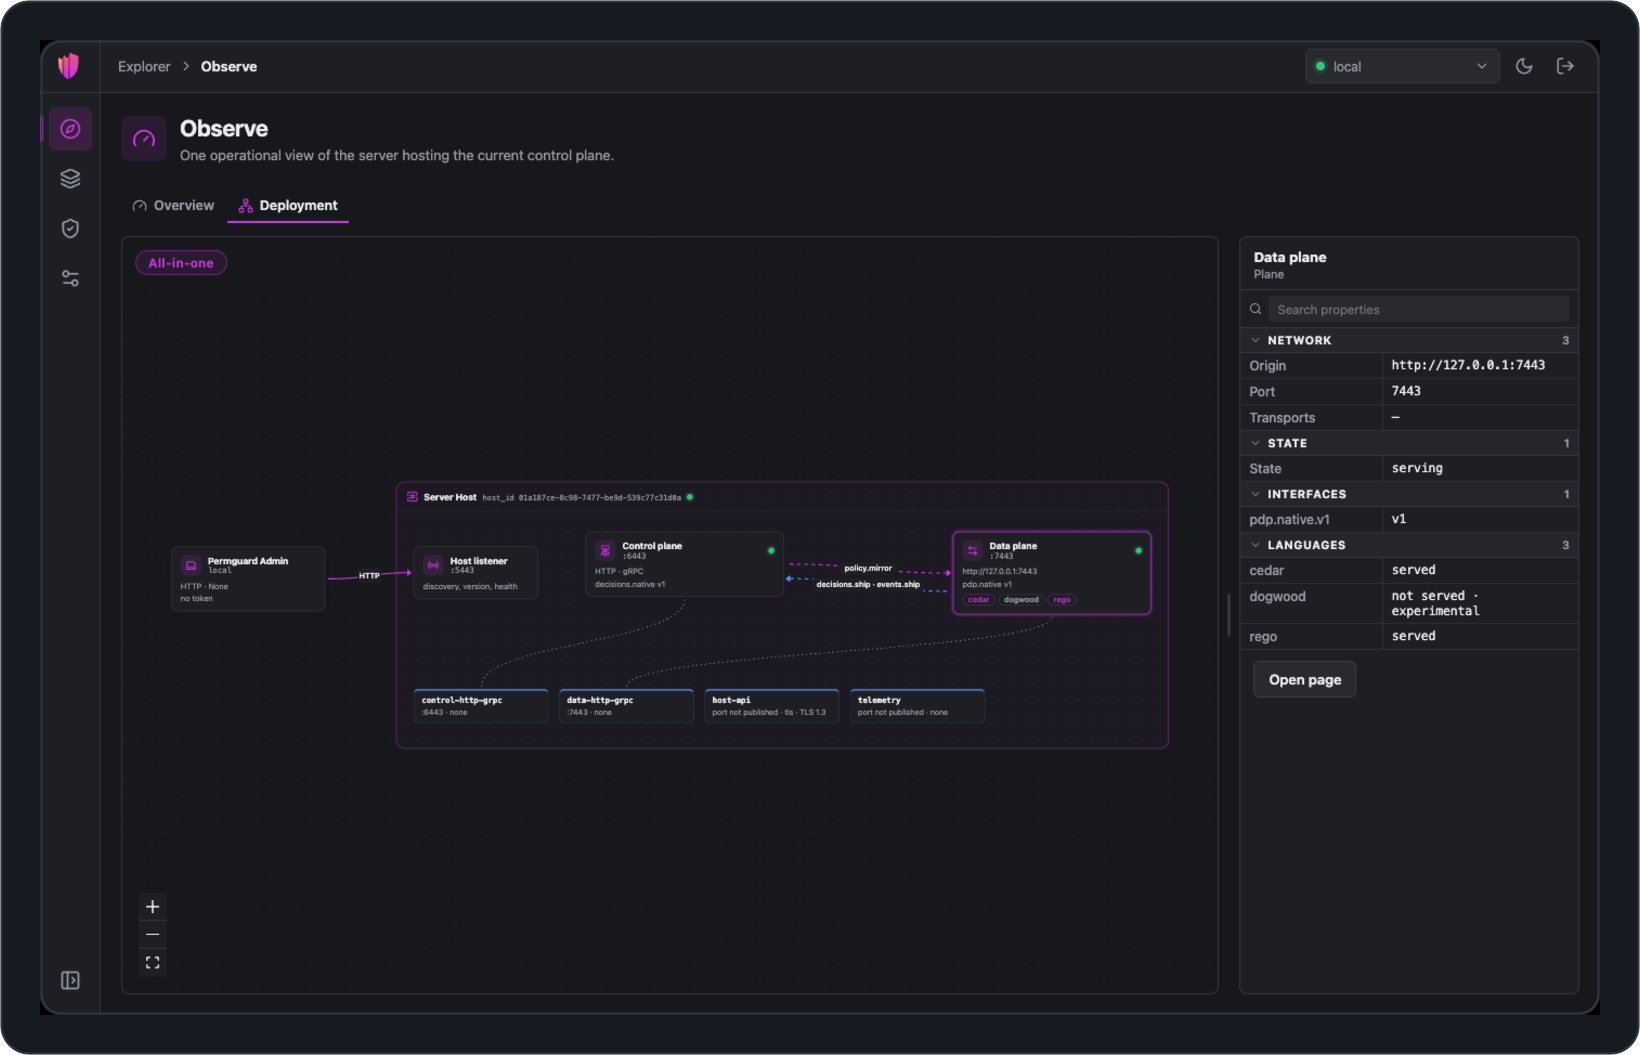
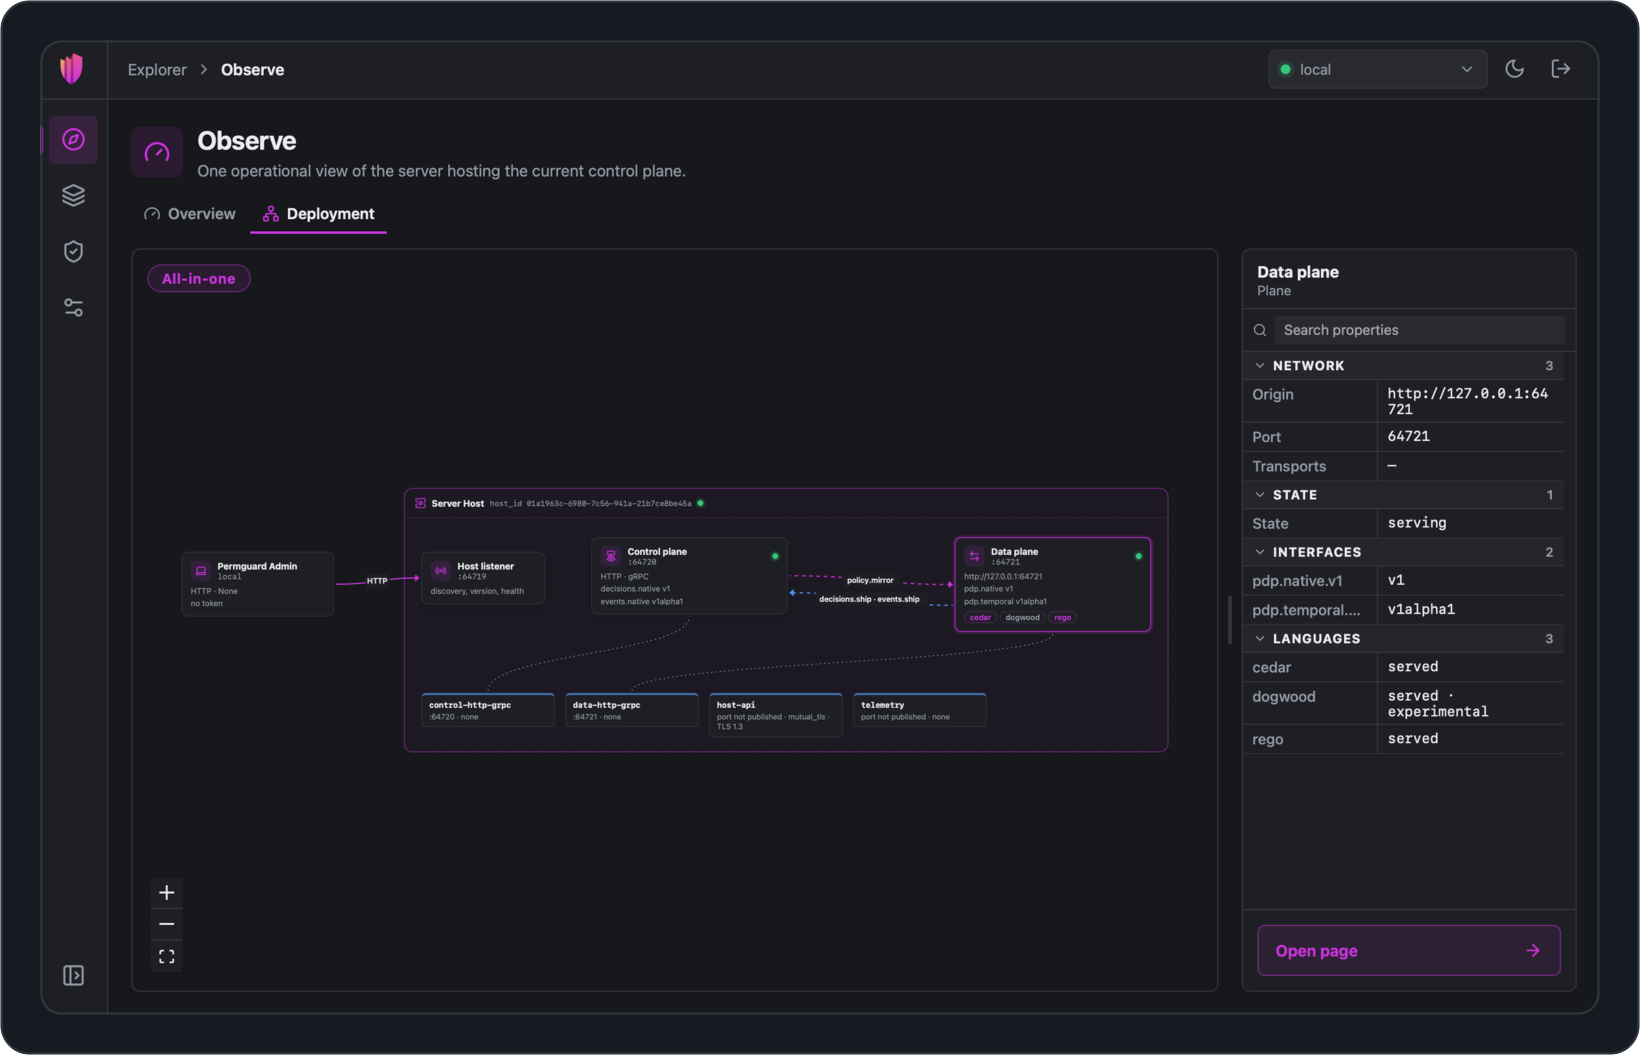
docs(readme): screenshots of 0.1.4 from the lab's sample data
Every screen and diagram retaken on the local all-in-one with its sample data, each alt text saying what it now shows; the playground's benchmarks/README.md removed, the suites staying in their folders.

diff --git a/README.md b/README.md
@@ -17,13 +17,13 @@ SPDX-License-Identifier: LicenseRef-Permguard-Admin-Binary
 </p>
 
 <p align="center">
-  <img src="assets/diagrams/deployment.png" alt="The deployment of a Permguard server, drawn by Permguard Admin from what the server publishes: Permguard Admin reaches the Host listener on 5443 over HTTP; inside the Server Host, the Control Plane on 6443 mirrors policies to the Data Plane on 7443, which ships decisions and events back; the Data Plane serves Cedar, Dogwood and Rego; below, the listeners control-http-grpc, data-http-grpc, host-api and telemetry." width="820">
+  <img src="assets/diagrams/deployment.png" alt="The deployment of a Permguard server, drawn by Permguard Admin from what the server publishes: Permguard Admin reaches the Host listener on 64719 over HTTP; inside the Server Host, the Control Plane on 64720 mirrors policies to the Data Plane on 64721, which ships decisions and events back; the Data Plane serves Cedar, Dogwood and Rego; below, the listeners control-http-grpc, data-http-grpc, host-api and telemetry." width="820">
 </p>
 
 <p align="center"><sub>Your server, drawn live: every plane, port, listener and flow, and how policies, decisions and events move between them.</sub></p>
 
 <p align="center">
-  <img src="assets/diagrams/ledger-diagrams.png" alt="Two ledger files as diagrams. Left, the manifest of mission-control: the profiles api, app and temporal point to the partitions api-gateway, mission-app and launch-window, which run on Rego, Cedar and Dogwood. Right, a Cedar schema: the actions BadgeIn, BadgeOut and Launch link their principal Nebula::Operator and their resource Nebula::Console, beside the input, output and context types." width="820">
+  <img src="assets/diagrams/ledger-diagrams.png" alt="Two ledger files as diagrams. Left, the manifest of order-platform: the profiles gateway, operations and refund point to the partitions order-operations, payment-api and refund-workflow, which run on Cedar, Rego and Dogwood. Right, a Cedar schema: the actions refund and view link their principal Operator and their resource Order, beside the entities Merchant and Role." width="820">
 </p>
 
 <p align="center"><sub>Your policies, drawn: which profile asks which partition and runtime, and what each action is allowed to touch.</sub></p>
@@ -40,7 +40,7 @@ Connect it to your Control Planes and manage them from one window: the server th
 No terminal, no curl, no guessing.
 
 <p align="center">
-  <img src="assets/screens/observe.png" alt="The Observe page: the server of the current control plane, active, with its transport, TLS, version and round trip, and a map of the Host, the Control Plane and the Data Plane." width="820">
+  <img src="assets/screens/observe.png" alt="The Observe page: the server of the current control plane at 127.0.0.1:64719, active, over HTTP with mutual TLS, with its version, its round trip, a small topology of the Host, the Control Plane and the Data Plane, and a map of the surfaces to open." width="820">
 </p>
 
 ## What you can do
@@ -55,7 +55,7 @@ Permguard Admin draws your server as it really is: the Host, the Control Plane a
 Click anything to read its details, double-click a plane to open it.
 
 <p align="center">
-  <img src="assets/screens/deployment.png" alt="The Deployment view: an all-in-one server with its Host listener, Control Plane, Data Plane and listeners, the flows between them, and the details of the selected Data Plane." width="820">
+  <img src="assets/screens/deployment.png" alt="The Deployment tab of Observe: an all-in-one server, with Permguard Admin reaching the Host listener, the Control Plane and the Data Plane exchanging policy.mirror and decisions.ship · events.ship, the four listeners below, and the facts of the selected Data Plane: its origin, state, interfaces and the languages it serves." width="820">
 </p>
 
 ### Follow every event, live
@@ -66,14 +66,14 @@ Spot a spike, drag across it to zoom in, and the list below shows just those eve
 Open any event to see when it happened, under which policies and commit, and its full payload.
 
 <p align="center">
-  <img src="assets/screens/events.png" alt="The Events page over the last hour: requests, responses and errors on a stacked timeline with two bursts; below, the live stream, newest first, and one event open with its type, times, ledger, profile, commit and history key." width="820">
+  <img src="assets/screens/events.png" alt="The Events page over the last 24 hours: 788 events, 394 requests and 394 responses on a stacked timeline of the day; below, the stream, newest first, and an event of the refund workflow open in the inspector with its type, occurrence and acceptance times, ledger, profile, partition and commit." width="820">
 </p>
 
 <details>
 <summary><b>Zoom into a spike</b></summary>
 
 <p align="center">
-  <img src="assets/screens/events-zoom.png" alt="The Events page zoomed into eleven minutes by dragging on the timeline: the pointer over one bar shows its counts by kind, and the stream lists only the events of that period." width="820">
+  <img src="assets/screens/events-zoom.png" alt="The Events page zoomed by clicking a bar of the timeline to fifteen minutes: 36 events, with Zoom out and Clear focus; the pointer over one bar shows its period and its counts by kind, and the stream lists only the events of that period." width="820">
 </p>
 
 </details>
@@ -84,7 +84,7 @@ Every permit and every deny your data plane records, in one list.
 Search by subject, action, resource or policy, filter by time and outcome, and open any decision to see the policies and the commit behind it.
 
 <p align="center">
-  <img src="assets/screens/decision-logs.png" alt="The Decision logs page: the decisions of the current control plane, newest first, each with its time, ledger, permit or deny, subject, action, resource, the policies that decided it and its latency; one decision is open in full." width="820">
+  <img src="assets/screens/decision-logs.png" alt="The Decision logs page over the last 24 hours: 10,226 decisions, 7,156 permits and 3,070 denies, a p50 of 229 µs and a p95 of 565 µs, on a timeline of the day; below, the records of the control plane local, newest first, each with its time, ledger, outcome, subject, action, resource, policies and latency; the first record is open as JSON." width="820">
 </p>
 
 ### Keep your ledgers at hand
@@ -93,7 +93,7 @@ The Sync Center lists every ledger your control plane serves.
 Clone the ones you care about in one click, and Permguard Admin tells you the moment a new version is published, so you pull it when you are ready.
 
 <p align="center">
-  <img src="assets/screens/sync-center.png" alt="The Sync Center: acme/main-ledger is on this computer and has a new version to pull; acme/payments and globex/gateway are on the server, each ready to clone." width="820">
+  <img src="assets/screens/sync-center.png" alt="The Sync Center of the control plane local: commerce/order-platform is cloned and marked to sync, with Pull and Open; commerce/customer-care, commerce/payments-gateway and commerce/warehouse-fleet are remote, each with Clone." width="820">
 </p>
 
 ### Read your policies as diagrams
@@ -101,7 +101,7 @@ Clone the ones you care about in one click, and Permguard Admin tells you the mo
 Open a manifest or a schema and switch it to Visual: profiles, partitions and runtimes, actions and the entities they act on, laid out as a map you can click through.
 
 <p align="center">
-  <img src="assets/screens/ledger-visual.png" alt="A ledger manifest opened as a diagram: three profiles pointing to their partitions and runtimes, one profile selected with its details." width="820">
+  <img src="assets/screens/ledger-visual.png" alt="The manifest of the order-platform ledger opened in Visual: profiles gateway, operations and refund, partitions order-operations, payment-api and refund-workflow, runtimes Cedar, Rego and Dogwood; the refund-workflow partition is selected and its facts name its kind, its fields and the runtime it points to." width="820">
 </p>
 
 ### Read every change to your policies
@@ -110,14 +110,14 @@ Open a ledger to browse its policies, and its history to see who changed what, w
 Every commit shows its diff, line by line.
 
 <p align="center">
-  <img src="assets/screens/ledger-commit.png" alt="A commit of main-ledger, owners: contractors may not write, with the change to cedar/document-owners.cedar shown as a diff." width="820">
+  <img src="assets/screens/ledger-commit.png" alt="The commit refunds: four eyes from EUR 250, down from EUR 500, in the ledger order-platform: one file changed, order-operations/high-value-refund-four-eyes.cedar, shown as a unified diff that lowers the threshold from 50000 to 25000 cents." width="820">
 </p>
 
 <details>
 <summary><b>Browse the policies of a ledger</b></summary>
 
 <p align="center">
-  <img src="assets/screens/ledger-files.png" alt="The files of main-ledger: the manifest, the Cedar policies and schema, and the Rego policy; one Cedar policy is open with syntax highlighting." width="820">
+  <img src="assets/screens/ledger-files.png" alt="The Files tab of order-platform: a tree with manifest.yml and the partitions order-operations, payment-api and refund-workflow, with their Cedar, Rego and Dogwood files and schemas; merchant-finance-refunds.cedar is open in the code viewer, tagged as a policy." width="820">
 </p>
 
 </details>
@@ -128,7 +128,7 @@ Write a request, or import one from a JSON file, pick the ledger and the profile
 The answer comes back next to it, with the policies that decided it, how long it took, and the command line to ask the same thing again from a script.
 
 <p align="center">
-  <img src="assets/screens/evaluation.png" alt="The Policy Decision Point page: a request for User alice to read Document budget-2026, and the answer of the data plane: permit, by document-readers and gateway-access, in 2 ms." width="820">
+  <img src="assets/screens/evaluation.png" alt="The Policy Decision Point page: a request imported from the Refund desk suite, the Operator carla.finance refunding an order in commerce/order-platform under the operations profile, and the answer of the data plane, permit, by the policy that allowed it, in 3 ms." width="820">
 </p>
 
 ### Load-test your policies
@@ -139,14 +139,14 @@ Every answer is checked against the decision and the policies it should get, so 
 The playground ships three suites to start from.
 
 <p align="center">
-  <img src="assets/screens/benchmarks.png" alt="The Benchmarks page after the Refund desk suite: 2,500 calls, a median of 1.29 ms and a p95 of 3.27 ms, no errors, no unexpected decisions, and the verdict Passed, with calls per second and response time over the run." width="820">
+  <img src="assets/screens/benchmarks.png" alt="The Benchmarks page after a run of the Refund desk suite against commerce/order-platform: 2,500 calls in 25 rounds with 8 in flight, 51 calls per second, latency p95 4.53 ms with p50 2.35 ms, no errors, no unexpected decisions, a 0.0% failure rate and the verdict Passed; below, the calls per second and the response time over the run." width="820">
 </p>
 
 <details>
 <summary><b>Every request of the suite, with its own figures</b></summary>
 
 <p align="center">
-  <img src="assets/screens/benchmarks-mix.png" alt="The Mix of the Refund desk suite: each request with the decision and policies it expects, how many calls it made, and its own latency, about 1.3 ms." width="820">
+  <img src="assets/screens/benchmarks-mix.png" alt="The Mix tab of the same run: each of the eight requests of the suite with its profile, weight, the decision and the policy it expects, the calls made, permits, denies, errors, unexpected decisions, and its own p50 and p95, about 2.3 ms and 4 to 5.3 ms." width="820">
 </p>
 
 </details>
@@ -157,7 +157,7 @@ Add your local Control Plane, staging and production side by side, over HTTP or 
 Switch between them from the top bar; a dot tells you at a glance which ones are online.
 
 <p align="center">
-  <img src="assets/screens/control-planes.png" alt="The Control planes page: local, active and current, over HTTP; staging, over gRPC with mutual TLS and a bearer token." width="820">
+  <img src="assets/screens/control-planes.png" alt="The Control planes page: the local all-in-one lab, running, with its ports and sample data; below, the control plane local, active, current and locked because it has a clone, over HTTP with mutual TLS." width="820">
 </p>
 
 ### Make it yours
@@ -288,7 +288,7 @@ The command line stays useful in a terminal, and installs on its own; see the [P
 Start Permguard Admin, choose a folder for your workspace, and connect it to a Permguard server: on your own computer, it finds the local one by itself.
 
 <p align="center">
-  <img src="assets/screens/home.png" alt="The welcome page: open a workspace, with your recent workspaces listed below." width="820">
+  <img src="assets/screens/home.png" alt="The home page outside of a workspace: Open your workspace, with a button to open a folder and the recent workspaces acme-retail, pinned, atlas, home-hub-lab and globex-gateway." width="820">
 </p>
 
 ## Help
